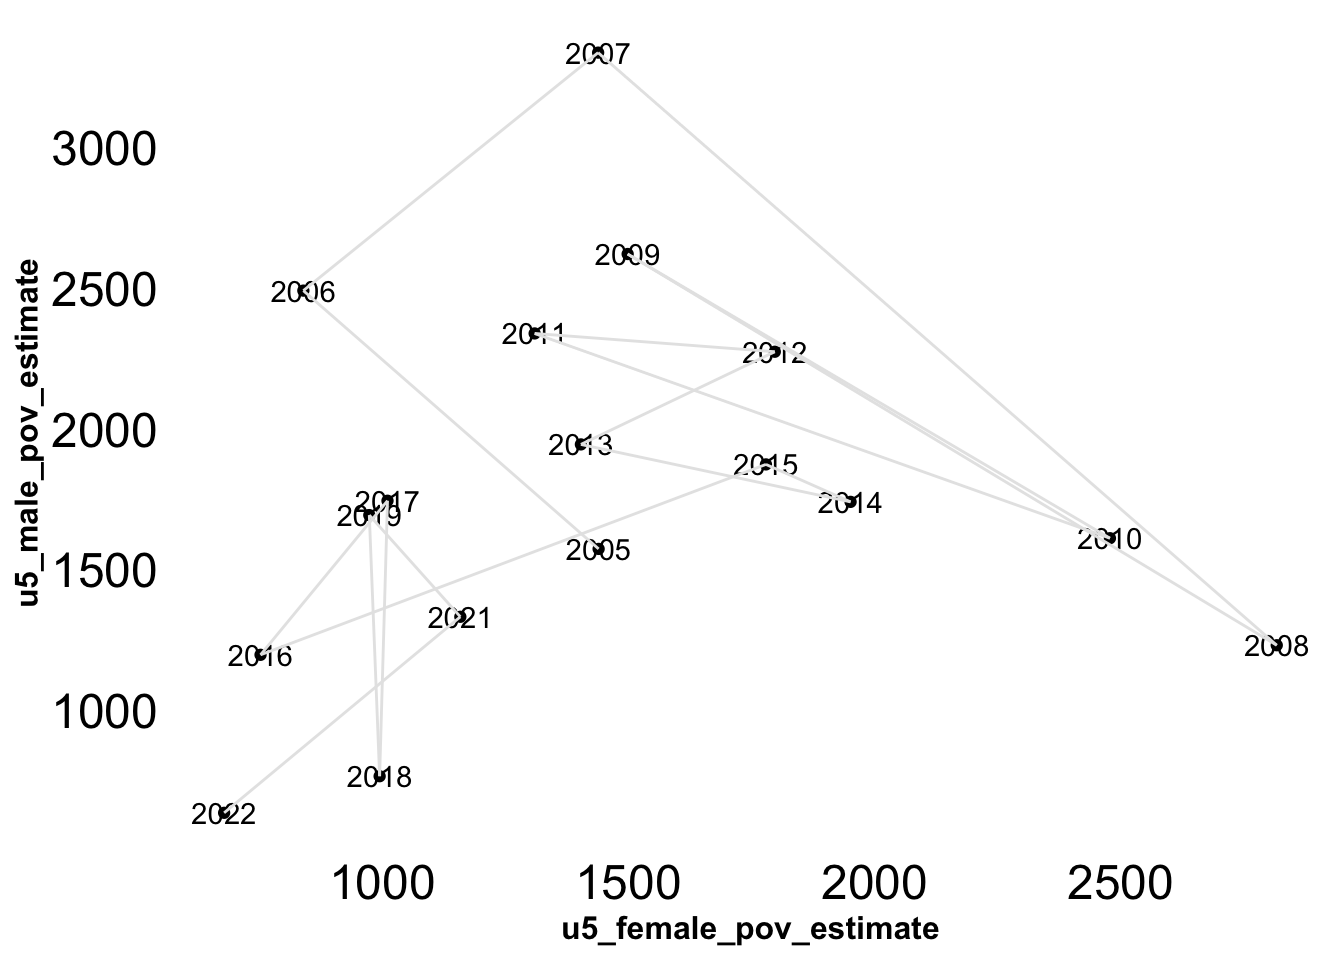
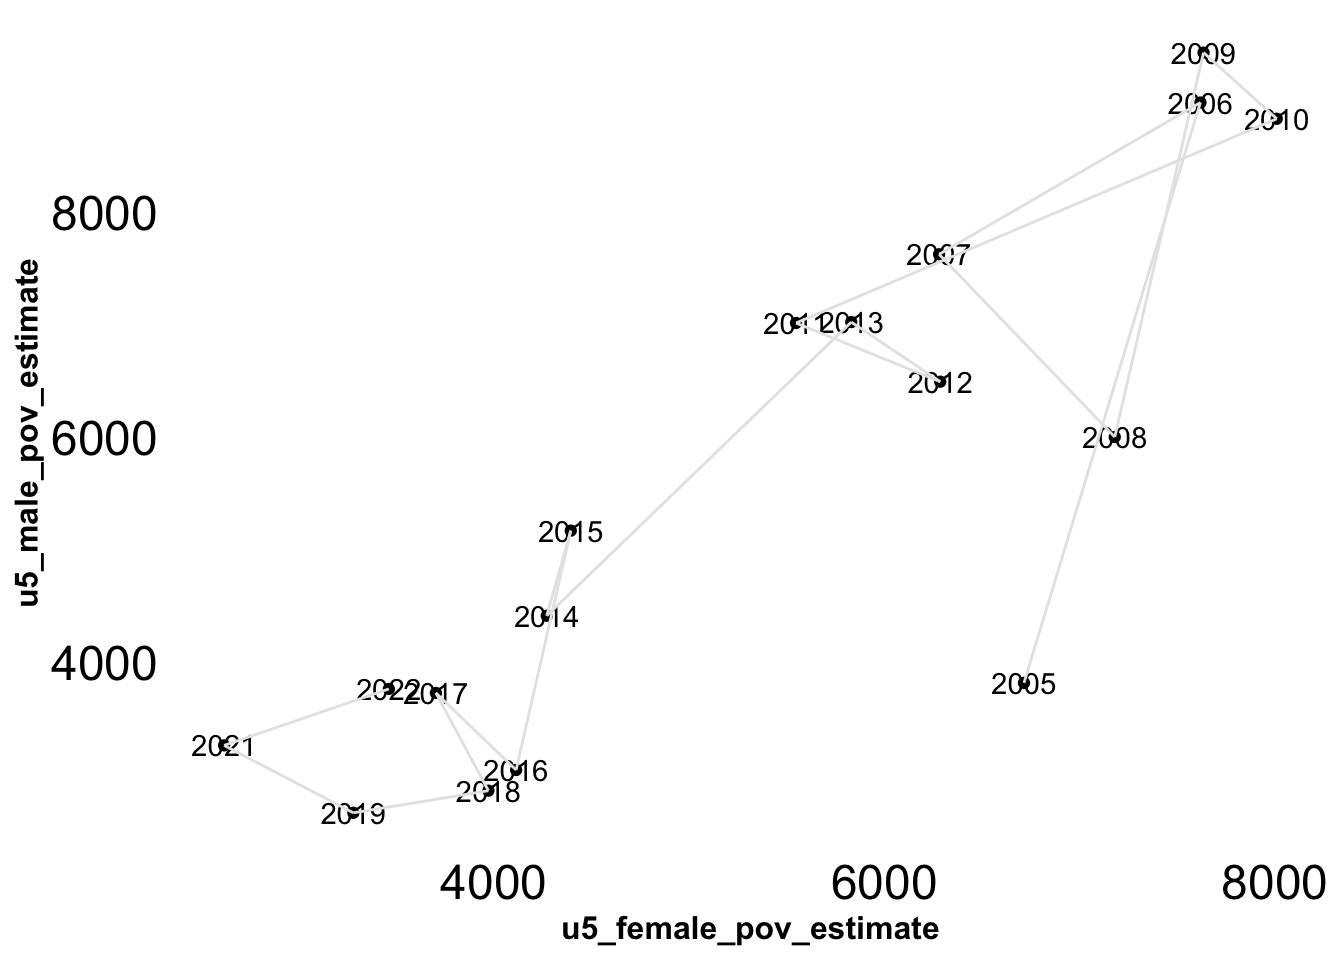
prevented error bar from including zero

diff --git a/docs/posts/2024-08-20-tidycensus-exploration-pt2/index.html b/docs/posts/2024-08-20-tidycensus-exploration-pt2/index.html
@@ -553,7 +553,7 @@ pre > code.sourceCode > span > a:first-child::before { text-decoration: underlin
 <div class="cell">
 <div class="sourceCode cell-code" id="cb47"><pre class="sourceCode r code-with-copy"><code class="sourceCode r"><span id="cb47-1"><a href="#cb47-1" aria-hidden="true" tabindex="-1"></a><span class="co"># connected scatter</span></span>
 <span id="cb47-2"><a href="#cb47-2" aria-hidden="true" tabindex="-1"></a>combined_acs_data <span class="sc">%&gt;%</span> </span>
-<span id="cb47-3"><a href="#cb47-3" aria-hidden="true" tabindex="-1"></a>  <span class="fu">filter</span>(county <span class="sc">==</span> <span class="st">'Jefferson'</span>) <span class="sc">%&gt;%</span> </span>
+<span id="cb47-3"><a href="#cb47-3" aria-hidden="true" tabindex="-1"></a>  <span class="fu">filter</span>(county <span class="sc">==</span> <span class="st">'Denver'</span>) <span class="sc">%&gt;%</span> </span>
 <span id="cb47-4"><a href="#cb47-4" aria-hidden="true" tabindex="-1"></a>  <span class="fu">ggplot</span>(.,</span>
 <span id="cb47-5"><a href="#cb47-5" aria-hidden="true" tabindex="-1"></a>         <span class="fu">aes</span>(<span class="at">x=</span>u5_female_pov_estimate, </span>
 <span id="cb47-6"><a href="#cb47-6" aria-hidden="true" tabindex="-1"></a>             <span class="at">y=</span>u5_male_pov_estimate)) <span class="sc">+</span></span>
